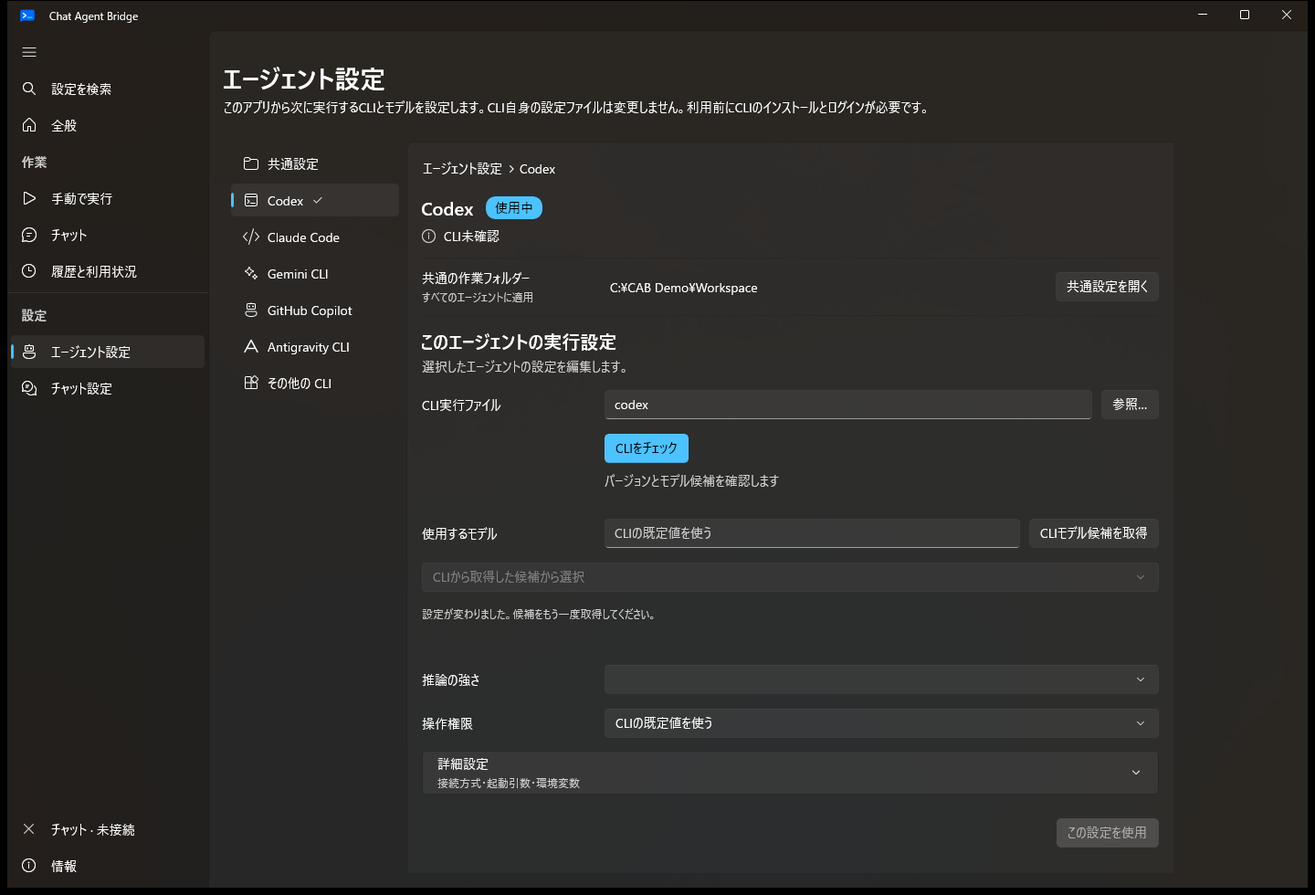
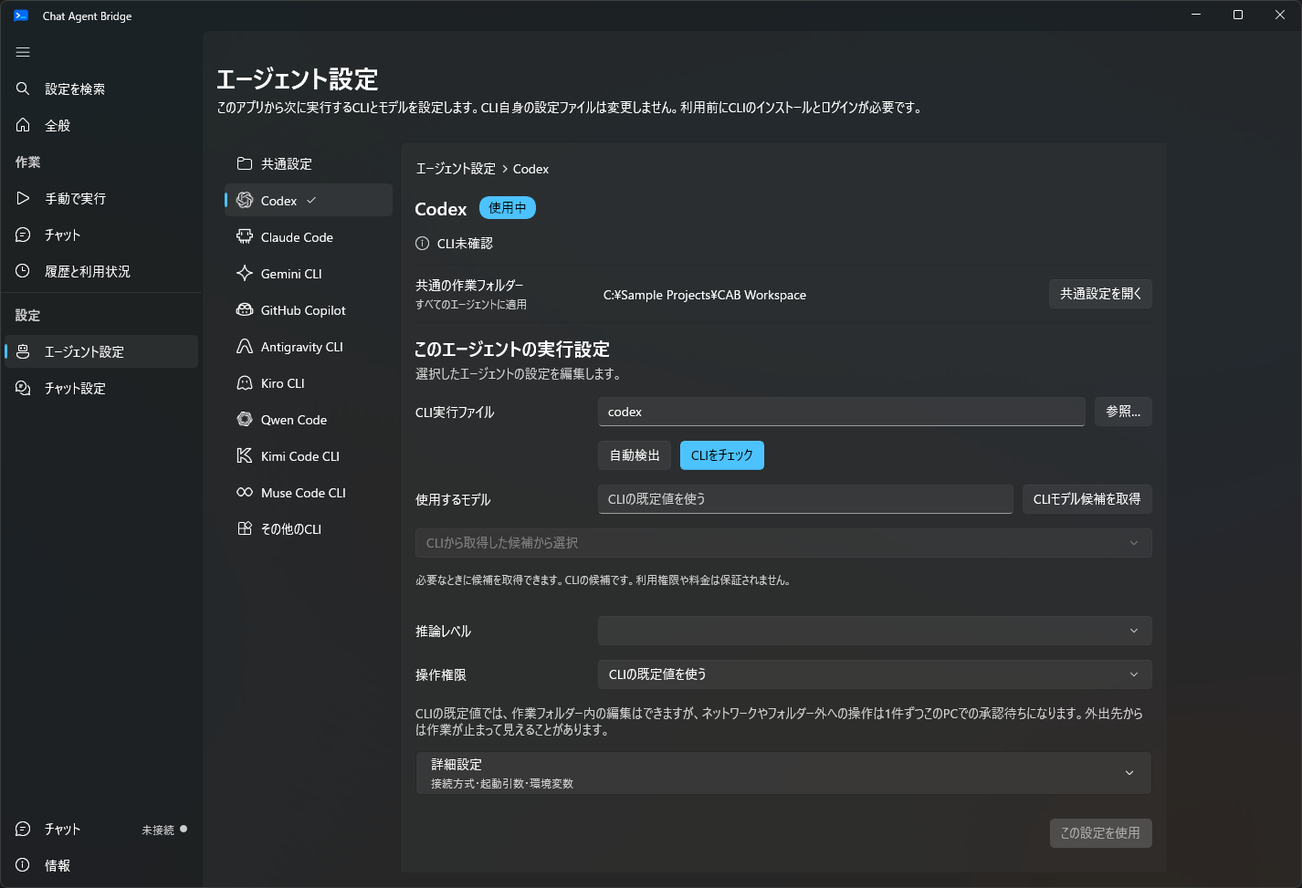
update: refresh screenshots and homepage

diff --git a/site/index.html b/site/index.html
@@ -38,7 +38,7 @@
 <div data-i18n="grp.ref" class="grp">参考</div><a data-i18n="nav.tips" href="#tips">Tips</a><a data-i18n="nav.faq" href="#faq">よくある質問</a></aside>
 <main id="top"><h1>Chat Agent Bridge</h1><p data-i18n="lead" class="sub">Slack・Mattermost・Discord に投稿した依頼を、Windows PC 上の AI エージェント（CLI）に渡して実行する常駐アプリです。結果は同じスレッドに返り、続きもそのスレッドで頼めます。</p><p data-i18n="note" class="dim">開発プレビュー版の非公式アプリです。各 AI サービスやチャットサービスの公式アプリではありません。</p><p data-i18n="recommend" class="dim">AI エージェントの提供元が公式のリモート操作機能を用意している場合は、そちらを推奨します。Chat Agent Bridge は、環境の制約で公式機能を使えない場合の代替手段です。</p><p data-i18n="safety" class="dim">予期しないユーザーからの利用や意図しない依頼を実行前に確認して止められるよう、「会話ごとに最初の依頼を確認」をおすすめします。会話の開始時に PC で依頼者と内容を確認します。許可ユーザーの制限と併用してください。</p>
 <div class="row"><a data-i18n="dl" class="btn accent" href="https://github.com/mmiyaji/chat-agent-bridge/releases">ポータブル版をダウンロード</a><a class="store" href="https://apps.microsoft.com/detail/9n1lzk25fsgr?mode=direct"><img class="on-light" src="assets/img/ms-store-badge-ja-dark.svg" data-en-src="assets/img/ms-store-badge-en-dark.svg" alt="Microsoft Store から入手" data-en-alt="Get it from Microsoft" width="132" height="36"><img class="on-dark" src="assets/img/ms-store-badge-ja-light.svg" data-en-src="assets/img/ms-store-badge-en-light.svg" alt="Microsoft Store から入手" data-en-alt="Get it from Microsoft" width="132" height="36"></a></div>
-<a href="assets/img/general-ja.png" class="glightbox shot-link" data-gallery="hero" data-description="全般の画面" data-en-href="assets/img/general-en.png" data-en-description="The General page"><img class="shot" src="assets/img/general-ja.png" alt="全般の画面" data-en-src="assets/img/general-en.png" data-en-alt="The General page" loading="lazy" width="1440" height="980"></a>
+<a href="assets/img/general-ja.png" class="glightbox shot-link" data-gallery="hero" data-description="全般の画面" data-en-href="assets/img/general-en.png" data-en-description="The General page"><img class="shot" src="assets/img/general-ja.png" alt="全般の画面" data-en-src="assets/img/general-en.png" data-en-alt="The General page" loading="lazy" width="1426" height="973"></a>
 <h2 data-i18n="h.how" id="how">仕組み</h2>
 <div class="card"><a href="assets/img/OverviewArchitecture-ja.png" class="glightbox shot diagram-link" data-gallery="how" data-description="依頼者、チャット、ローカル PC、結果の4段階の構成図" data-en-href="assets/img/OverviewArchitecture-en.png" data-en-description="Diagram of the four stages: requester, chat, local PC and result"><img class="shot diagram" src="assets/img/OverviewArchitecture-ja.png" alt="依頼者、チャット、ローカル PC、結果の4段階の構成図" data-en-src="assets/img/OverviewArchitecture-en.png" data-en-alt="Diagram of the four stages: requester, chat, local PC and result" loading="lazy" width="1440" height="980"></a><div class="state">
 <div class="card"><h3><span>01</span><span data-i18n="step1.t">チャットに投稿</span></h3><p data-i18n="step1.d" class="dim">外出先のスマートフォンや別の PC から、Bot へのメンションか <code>!cab</code> で依頼を書きます。操作する側の端末に CLI は要りません。</p></div>
@@ -48,20 +48,19 @@
 </div></div>
 <h2 data-i18n="h.features" id="features">できること</h2>
 <div class="stack">
-<div class="card exp"><div class="head"><div><h3 data-i18n="f1.t">チャットから依頼して、同じスレッドで続ける</h3><p data-i18n="f1.d">Slack、Mattermost、Discord に対応しています。スレッドごとに会話が分かれ、返信がそのまま追加の依頼になります。経過メッセージは「最小・標準・詳細」から選べ、標準では完了時に操作件数と使用量の1行にまとまります。</p></div><a href="assets/img/mattermost-demo-final.png" class="glightbox shot-link" data-gallery="site" data-description="Mattermost のスレッドで依頼と結果をやり取りしている画面" data-en-href="assets/img/mattermost-demo-final.png" data-en-description="A request and its result in a Mattermost thread"><img class="shot" src="assets/img/mattermost-demo-final.png" alt="Mattermost のスレッドで依頼と結果をやり取りしている画面" data-en-src="assets/img/mattermost-demo-final.png" data-en-alt="A request and its result in a Mattermost thread" loading="lazy" width="1440" height="980"></a></div></div>
-<div class="card exp"><div class="head"><div><h3 data-i18n="f2.t">承認と共有は自分で決める</h3><p data-i18n="f2.d">依頼の承認は「許可ユーザーは確認なし・会話の最初だけ・毎回」、結果の共有は「手動・自動・共有しない」から選びます。許可ユーザー、受け付けるチャンネルとスレッド、信頼する作業フォルダーもここで絞り込みます。</p></div><a href="assets/img/chat-settings-ja.png" class="glightbox shot-link" data-gallery="site" data-description="チャット設定の画面。承認、共有、追加指示、添付ファイルの設定が並ぶ" data-en-href="assets/img/chat-settings-en.png" data-en-description="Chat settings: approvals, sharing, follow-ups and attachments"><img class="shot" src="assets/img/chat-settings-ja.png" alt="チャット設定の画面。承認、共有、追加指示、添付ファイルの設定が並ぶ" data-en-src="assets/img/chat-settings-en.png" data-en-alt="Chat settings: approvals, sharing, follow-ups and attachments" loading="lazy" width="1440" height="980"></a></div></div>
-<div class="card exp"><div class="head"><div><h3 data-i18n="f3.t">使う CLI とモデルを切り替える</h3><p data-i18n="f3.d">Codex、Claude Code、Gemini CLI、GitHub Copilot CLI、Antigravity CLI に対応し、Kiro CLI・Qwen Code・Kimi Code CLI・Muse Code CLI はプレビュー対応です。会話ごとにエージェントとモデルを変えられ、切り替えるときは引き継ぎメモを渡すか選べます。</p></div><a href="assets/img/agents-ja.png" class="glightbox shot-link" data-gallery="site" data-description="エージェント設定の画面。作業フォルダーと CLI ごとの設定" data-en-href="assets/img/agents-en.png" data-en-description="Agent settings: the work folder and per-CLI settings"><img class="shot" src="assets/img/agents-ja.png" alt="エージェント設定の画面。作業フォルダーと CLI ごとの設定" data-en-src="assets/img/agents-en.png" data-en-alt="Agent settings: the work folder and per-CLI settings" loading="lazy" width="1440" height="980"></a></div></div>
-<div class="card exp"><div class="head"><div><h3 data-i18n="f4.t">履歴と利用量を見返す</h3><p data-i18n="f4.d">会話の一覧、実行と操作の記録、日別の利用カレンダー、トークン数とキャッシュ利用率のグラフを表示します。推定コストは公開料金からの参考値で、依頼本文や結果の本文は保存しません。</p></div><a href="assets/img/history-ja.png" class="glightbox shot-link" data-gallery="site" data-description="履歴と利用状況の画面。日別の利用カレンダー" data-en-href="assets/img/history-en.png" data-en-description="History and usage: the daily usage calendar"><img class="shot" src="assets/img/history-ja.png" alt="履歴と利用状況の画面。日別の利用カレンダー" data-en-src="assets/img/history-en.png" data-en-alt="History and usage: the daily usage calendar" loading="lazy" width="1440" height="980"></a></div></div>
-<div class="card exp"><div class="head"><div><h3 data-i18n="f5.t">常駐と自動接続</h3><p data-i18n="f5.d">Windows へのサインイン時の自動起動、起動後の自動接続、タスクトレイ常駐を設定できます。ポータブル版はアプリ内で更新を確認し、ダウンロードの一時停止・再開もできます。</p></div><a href="assets/img/general-ja.png" class="glightbox shot-link" data-gallery="site" data-description="全般の画面。現在の状態と自動起動・自動接続の設定" data-en-href="assets/img/general-en.png" data-en-description="General: current status and startup and connection settings"><img class="shot" src="assets/img/general-ja.png" alt="全般の画面。現在の状態と自動起動・自動接続の設定" data-en-src="assets/img/general-en.png" data-en-alt="General: current status and startup and connection settings" loading="lazy" width="1440" height="980"></a></div></div>
+<div class="card exp"><div class="head"><div><h3 data-i18n="f1.t">チャットから依頼して、同じスレッドで続ける</h3><p data-i18n="f1.d">Slack、Mattermost、Discord に対応しています。スレッドごとに会話が分かれ、返信がそのまま追加の依頼になります。経過メッセージは「最小・標準・詳細」から選べ、標準では完了時に操作件数と使用量の1行にまとまります。</p></div><a href="assets/img/chat-service-flow-ja.png" class="glightbox shot-link" data-gallery="site" data-description="Mattermost と Slack：実行中から同じスレッドへの結果返信まで" data-en-href="assets/img/chat-service-flow-en.png" data-en-description="Mattermost and Slack: progress and results in the same thread"><img class="shot" src="assets/img/chat-service-flow-ja.png" alt="Mattermost と Slack の実行中表示と結果返信" data-en-src="assets/img/chat-service-flow-en.png" data-en-alt="In-progress status and result replies in Mattermost and Slack" loading="lazy" width="2560" height="1440"></a></div></div>
+<div class="card exp"><div class="head"><div><h3 data-i18n="f2.t">承認と共有は自分で決める</h3><p data-i18n="f2.d">依頼の承認は「許可ユーザーは確認なし・会話の最初だけ・毎回」、結果の共有は「手動・自動・共有しない」から選びます。許可ユーザー、受け付けるチャンネルとスレッド、信頼する作業フォルダーもここで絞り込みます。</p></div><a href="assets/img/chat-settings-ja.png" class="glightbox shot-link" data-gallery="site" data-description="チャット設定の画面。承認、共有、追加指示、添付ファイルの設定が並ぶ" data-en-href="assets/img/chat-settings-en.png" data-en-description="Chat settings: approvals, sharing, follow-ups and attachments"><img class="shot" src="assets/img/chat-settings-ja.png" alt="チャット設定の画面。承認、共有、追加指示、添付ファイルの設定が並ぶ" data-en-src="assets/img/chat-settings-en.png" data-en-alt="Chat settings: approvals, sharing, follow-ups and attachments" loading="lazy" width="1426" height="973"></a></div></div>
+<div class="card exp"><div class="head"><div><h3 data-i18n="f3.t">使う CLI とモデルを切り替える</h3><p data-i18n="f3.d">Codex、Claude Code、Gemini CLI、GitHub Copilot CLI、Antigravity CLI に対応し、Kiro CLI・Qwen Code・Kimi Code CLI・Muse Code CLI はプレビュー対応です。会話ごとにエージェントとモデルを変えられ、切り替えるときは引き継ぎメモを渡すか選べます。</p></div><a href="assets/img/agents-ja.png" class="glightbox shot-link" data-gallery="site" data-description="エージェント設定の画面。作業フォルダーと CLI ごとの設定" data-en-href="assets/img/agents-en.png" data-en-description="Agent settings: the work folder and per-CLI settings"><img class="shot" src="assets/img/agents-ja.png" alt="エージェント設定の画面。作業フォルダーと CLI ごとの設定" data-en-src="assets/img/agents-en.png" data-en-alt="Agent settings: the work folder and per-CLI settings" loading="lazy" width="1426" height="973"></a></div></div>
+<div class="card exp"><div class="head"><div><h3 data-i18n="f4.t">履歴と利用量を見返す</h3><p data-i18n="f4.d">会話の一覧、実行と操作の記録、日別の利用カレンダー、トークン数とキャッシュ利用率のグラフを表示します。推定コストは公開料金からの参考値で、依頼本文や結果の本文は保存しません。</p></div><a href="assets/img/history-ja.png" class="glightbox shot-link" data-gallery="site" data-description="履歴と利用状況の画面。日別の利用カレンダー" data-en-href="assets/img/history-en.png" data-en-description="History and usage: the daily usage calendar"><img class="shot" src="assets/img/history-ja.png" alt="履歴と利用状況の画面。日別の利用カレンダー" data-en-src="assets/img/history-en.png" data-en-alt="History and usage: the daily usage calendar" loading="lazy" width="1426" height="973"></a></div></div>
+<div class="card exp"><div class="head"><div><h3 data-i18n="f5.t">常駐と自動接続</h3><p data-i18n="f5.d">Windows へのサインイン時の自動起動、起動後の自動接続、タスクトレイ常駐を設定できます。ポータブル版はアプリ内で更新を確認し、ダウンロードの一時停止・再開もできます。</p></div><a href="assets/img/general-ja.png" class="glightbox shot-link" data-gallery="site" data-description="全般の画面。現在の状態と自動起動・自動接続の設定" data-en-href="assets/img/general-en.png" data-en-description="General: current status and startup and connection settings"><img class="shot" src="assets/img/general-ja.png" alt="全般の画面。現在の状態と自動起動・自動接続の設定" data-en-src="assets/img/general-en.png" data-en-alt="General: current status and startup and connection settings" loading="lazy" width="1426" height="973"></a></div></div>
 </div>
 <h2 data-i18n="h.gallery" id="gallery">画面</h2>
 <div class="gal">
-<figure><a href="assets/img/general-ja.png" class="glightbox shot-link" data-gallery="g" data-description="全般：現在の状態と起動・接続の設定" data-en-href="assets/img/general-en.png" data-en-description="General: status, startup and connection"><img class="shot" src="assets/img/general-ja.png" alt="全般：現在の状態と起動・接続の設定" data-en-src="assets/img/general-en.png" data-en-alt="General: status, startup and connection" loading="lazy" width="1440" height="980"></a><figcaption data-i18n="g1">全般：現在の状態と起動・接続の設定</figcaption></figure>
-<figure><a href="assets/img/chat-settings-ja.png" class="glightbox shot-link" data-gallery="g" data-description="チャット設定：承認・共有・添付ファイル" data-en-href="assets/img/chat-settings-en.png" data-en-description="Chat settings: approvals, sharing, attachments"><img class="shot" src="assets/img/chat-settings-ja.png" alt="チャット設定：承認・共有・添付ファイル" data-en-src="assets/img/chat-settings-en.png" data-en-alt="Chat settings: approvals, sharing, attachments" loading="lazy" width="1440" height="980"></a><figcaption data-i18n="g2">チャット設定：承認・共有・添付ファイル</figcaption></figure>
-<figure><a href="assets/img/agents-ja.png" class="glightbox shot-link" data-gallery="g" data-description="エージェント設定：作業フォルダーと CLI" data-en-href="assets/img/agents-en.png" data-en-description="Agent settings: work folder and CLI"><img class="shot" src="assets/img/agents-ja.png" alt="エージェント設定：作業フォルダーと CLI" data-en-src="assets/img/agents-en.png" data-en-alt="Agent settings: work folder and CLI" loading="lazy" width="1440" height="980"></a><figcaption data-i18n="g3">エージェント設定：作業フォルダーと CLI</figcaption></figure>
-<figure><a href="assets/img/history-ja.png" class="glightbox shot-link" data-gallery="g" data-description="履歴と利用状況：日別カレンダー" data-en-href="assets/img/history-en.png" data-en-description="History and usage: daily calendar"><img class="shot" src="assets/img/history-ja.png" alt="履歴と利用状況：日別カレンダー" data-en-src="assets/img/history-en.png" data-en-alt="History and usage: daily calendar" loading="lazy" width="1440" height="980"></a><figcaption data-i18n="g4">履歴と利用状況：日別カレンダー</figcaption></figure>
-<figure><a href="assets/img/slack-demo-2026-03-31-final.png" class="glightbox shot-link" data-gallery="g" data-description="Slack でのやり取りの例" data-en-href="assets/img/slack-demo-2026-03-31-final.png" data-en-description="An exchange in Slack"><img class="shot" src="assets/img/slack-demo-2026-03-31-final.png" alt="Slack でのやり取りの例" data-en-src="assets/img/slack-demo-2026-03-31-final.png" data-en-alt="An exchange in Slack" loading="lazy" width="1440" height="980"></a><figcaption data-i18n="g5">Slack でのやり取りの例</figcaption></figure>
-<figure><a href="assets/img/mattermost-demo-final.png" class="glightbox shot-link" data-gallery="g" data-description="Mattermost でのやり取りの例" data-en-href="assets/img/mattermost-demo-final.png" data-en-description="An exchange in Mattermost"><img class="shot" src="assets/img/mattermost-demo-final.png" alt="Mattermost でのやり取りの例" data-en-src="assets/img/mattermost-demo-final.png" data-en-alt="An exchange in Mattermost" loading="lazy" width="1440" height="980"></a><figcaption data-i18n="g6">Mattermost でのやり取りの例</figcaption></figure>
+<figure><a href="assets/img/general-ja.png" class="glightbox shot-link" data-gallery="g" data-description="全般：現在の状態と起動・接続の設定" data-en-href="assets/img/general-en.png" data-en-description="General: status, startup and connection"><img class="shot" src="assets/img/general-ja.png" alt="全般：現在の状態と起動・接続の設定" data-en-src="assets/img/general-en.png" data-en-alt="General: status, startup and connection" loading="lazy" width="1426" height="973"></a><figcaption data-i18n="g1">全般：現在の状態と起動・接続の設定</figcaption></figure>
+<figure><a href="assets/img/chat-settings-ja.png" class="glightbox shot-link" data-gallery="g" data-description="チャット設定：承認・共有・添付ファイル" data-en-href="assets/img/chat-settings-en.png" data-en-description="Chat settings: approvals, sharing, attachments"><img class="shot" src="assets/img/chat-settings-ja.png" alt="チャット設定：承認・共有・添付ファイル" data-en-src="assets/img/chat-settings-en.png" data-en-alt="Chat settings: approvals, sharing, attachments" loading="lazy" width="1426" height="973"></a><figcaption data-i18n="g2">チャット設定：承認・共有・添付ファイル</figcaption></figure>
+<figure><a href="assets/img/agents-ja.png" class="glightbox shot-link" data-gallery="g" data-description="エージェント設定：作業フォルダーと CLI" data-en-href="assets/img/agents-en.png" data-en-description="Agent settings: work folder and CLI"><img class="shot" src="assets/img/agents-ja.png" alt="エージェント設定：作業フォルダーと CLI" data-en-src="assets/img/agents-en.png" data-en-alt="Agent settings: work folder and CLI" loading="lazy" width="1426" height="973"></a><figcaption data-i18n="g3">エージェント設定：作業フォルダーと CLI</figcaption></figure>
+<figure><a href="assets/img/history-ja.png" class="glightbox shot-link" data-gallery="g" data-description="履歴と利用状況：日別カレンダー" data-en-href="assets/img/history-en.png" data-en-description="History and usage: daily calendar"><img class="shot" src="assets/img/history-ja.png" alt="履歴と利用状況：日別カレンダー" data-en-src="assets/img/history-en.png" data-en-alt="History and usage: daily calendar" loading="lazy" width="1426" height="973"></a><figcaption data-i18n="g4">履歴と利用状況：日別カレンダー</figcaption></figure>
+<figure class="flow"><a href="assets/img/chat-service-flow-ja.png" class="glightbox shot-link" data-gallery="g" data-description="Mattermost と Slack：依頼の実行中から完了・結果返信まで" data-en-href="assets/img/chat-service-flow-en.png" data-en-description="Mattermost and Slack: from request in progress to completion and result"><img class="shot" src="assets/img/chat-service-flow-ja.png" alt="Mattermost と Slack で依頼の実行中状態から同じスレッドへの結果返信まで" data-en-src="assets/img/chat-service-flow-en.png" data-en-alt="Request progress and result replies in Mattermost and Slack threads" loading="lazy" width="2560" height="1440"></a><figcaption data-i18n="g5">Mattermost と Slack：依頼の実行中から完了・結果返信まで</figcaption></figure>
 </div>
 <h2 data-i18n="h.start" id="start">始め方</h2>
 <div class="card flush"><table class="req">

diff --git a/site/assets/styles.css b/site/assets/styles.css
@@ -26,7 +26,7 @@ h1{font-size:30px;font-weight:600;margin:0 0 6px}h2{font-size:20px;font-weight:6
 .stack>.card+.card{margin-top:4px}
 .exp{padding:0}.exp>.head{display:grid;grid-template-columns:minmax(0,1fr) 300px;gap:20px;padding:16px 18px;align-items:center}
 .exp p{margin:2px 0 0;color:var(--muted);font-size:14px}
-.gal{display:grid;grid-template-columns:repeat(3,minmax(0,1fr));gap:10px}.gal figure{margin:0}.gal figcaption{font-size:12px;color:var(--dim);margin-top:4px}
+.gal{display:grid;grid-template-columns:repeat(3,minmax(0,1fr));gap:10px}.gal figure{margin:0}.gal figure.flow{grid-column:1/-1}.gal figcaption{font-size:12px;color:var(--dim);margin-top:4px}
 table.req{width:100%;border-collapse:collapse;font-size:14px}table.req th,table.req td{padding:10px 14px;text-align:left;border-top:1px solid var(--line);vertical-align:top}table.req tr:first-child th,table.req tr:first-child td{border-top:0}table.req th{width:9em;font-weight:600}
 ol.inst{margin:0;padding:0;list-style:none;counter-reset:n}ol.inst li{counter-increment:n;display:grid;grid-template-columns:28px 1fr;gap:10px;padding:10px 0;border-top:1px solid var(--line)}ol.inst li:first-child{border-top:0}
 ol.inst li::before{content:counter(n);width:24px;height:24px;border-radius:50%;background:var(--card2);border:1px solid var(--line);display:grid;place-items:center;font-size:12px}

diff --git a/site/assets/i18n-en.js b/site/assets/i18n-en.js
@@ -41,8 +41,7 @@ window.CAB_EN = {
  "g2": "Chat settings: approvals, sharing, attachments",
  "g3": "Agent settings: work folder and CLI",
  "g4": "History and usage: daily calendar",
- "g5": "An exchange in Slack",
- "g6": "An exchange in Mattermost",
+ "g5": "Mattermost and Slack: from request in progress to completion and result reply",
  "h.start": "Getting started",
  "r1.k": "OS",
  "r1.v": "Windows 10 (version 1809 or later) or Windows 11",

diff --git a/docs/assets/screenshots/README.md b/docs/assets/screenshots/README.md
@@ -1,23 +1,75 @@
 # README screenshots
 
-Captured on Windows on 2026-11-02 from the current native desktop development
-build. The images show the current navigation groups, Antigravity CLI settings,
-Discord chat settings, and progress-message detail control.
+Captured on Windows on 2026-11-08 from the current native desktop development
+build. The images show General, Agent settings, shared Chat settings, and the
+History and usage Activity tab.
 
 - `*-ja.png`: Japanese, dark appearance.
 - `*-en.png`: English, light appearance.
-- Each image is an unedited 1440 × 980 native window capture.
+- Each image is a 1426 × 973 native window capture. UI inspection overlays were
+  excluded; no application content was altered.
 - The app used separate demo data directories, not the user's normal profile.
 - Chat was disconnected, tokens were absent, and no AI requests were made.
 - History screenshots show 70 generated aggregate runs across 28 active days and
   52 detailed execution records still within the default 30-day history period.
   Older detail records have expired while the longer-lived statistics remain.
   Counts, tokens and model names are sample data, not performance results.
-- Agent screenshots show Codex selected with its CLI unverified. Chat settings
-  show no credentials and the app remains disconnected.
+- Agent screenshots show Codex selected with its CLI unverified and a generic
+  sample workspace path. Chat settings show no credentials and the app remains
+  disconnected.
 
 When refreshing, use an isolated profile with no credentials, disable update and
 price-table network checks, capture the same four pages in both languages, and
 review every image for clipping, error banners and sensitive information before
 replacing the files. Update the screenshot date in both root READMEs and note if
 the Partner Center draft still contains an earlier image set.
+
+The Store screenshot assets are in `../store-screenshots/{ja,en}/`. Each
+language has four unannotated native app captures and one chat-flow composite.
+The Store listing is paused; these files have not been uploaded to Partner
+Center. Storeframe checked the eight native captures against the cached MSIX
+desktop target, with no machine-check issues. Both composites were separately
+checked for PNG format, 2560 × 1440 dimensions, and file size under 50 MB.
+Microsoft lists a minimum of 1366 × 768 pixels and a 50 MB maximum per
+screenshot. See the current [Microsoft screenshot
+requirements](https://learn.microsoft.com/en-us/windows/apps/publish/publish-your-app/msix/screenshots-and-images).
+
+## Chat client demos
+
+`mattermost-demo-running-en.png` and `mattermost-demo-completed-en.png` are the
+English versions; the un-suffixed files are identical copies for existing links.
+They show the current CAB app connected to a dedicated channel on the local
+Mattermost test Docker server. The UI is English, progress reporting is set to
+Standard, and the request only waits before replying; it does not read, create,
+or modify files. The channel and accounts are generic test identities. No real
+workspace, service, or personal account data is shown.
+
+`slack-demo-completed-ja.png` and `slack-demo-running-ja.png` show the Japanese
+Slack thread. `slack-demo-completed-en.png` shows the English Slack interface
+and request/reply; CAB's status labels in that earlier capture are Japanese.
+`slack-demo-running-en.png` shows both the English Slack interface and CAB's
+English in-progress status. These captures use the existing `#cab` channel.
+Human account names and avatars are redacted; screenshots are cropped to the
+thread, excluding workspace navigation and account context. The English
+in-progress request only waits before replying and does not access or modify
+files.
+
+## Store chat-flow composites
+
+`../store-screenshots/ja/chat-service-flow.png` and
+`../store-screenshots/en/chat-service-flow.png` combine real Mattermost and Slack
+thread captures into a two-column, running-to-completed flow. Both are PNGs at
+2560 × 1440 (under 50 MB); the source mapping and SHA-256 values are recorded in
+`../store-screenshots/chat-flow-manifest.json`. The Japanese image labels that
+the Mattermost UI capture is English. The English image notes that the Slack
+completion capture has Japanese bot status text. Copies for the root READMEs
+are `chat-service-flow-ja.png` and `chat-service-flow-en.png` in this directory.
+The composites are also included in the website gallery with a Japanese/English
+language switch.
+
+These are annotated composites, made because the two-service state transition
+needs to be presented in one image. Microsoft Store's technical screenshot
+minimums are met, but its content guidance recommends unaltered app screenshots
+without marketing overlays. Treat these files as requiring manual content
+review before any future submission. The Store listing remains paused and the
+images have not been uploaded to Partner Center.

diff --git a/README.ja.md b/README.ja.md
@@ -217,11 +217,16 @@ PCでも実行中の出力を確認し、依頼を中断できます。
 
 ポータブル版は**情報**から更新を確認・適用できます。ダウンロード中と一時停止中は受信済み容量と総容量を表示します。転送速度・推定残り時間、通信待ちの経過秒数、再試行の回数、検証・更新準備の処理段階を確認でき、キャンセルも可能です。データを5分間受信できない場合は再試行します。一時停止・再開と、アプリ再起動後の続きからの取得に対応します。通信エラーは最大3回自動再試行し、完了時に全体のSHA-256を検証します。`Data`は更新後も引き継ぎます。完了した更新のダウンロードや一時的なバイナリは自動で整理し、ログや更新記録は保持します。情報の「更新の設定」で使用容量を確認できます。手動の整理は「情報 → 詳細設定 → 保守」から行えます。手動で更新する場合は、アプリを終了してから`Data`を残して入れ替えてください。
 
-画面写真は2026年11月2日に開発版から撮影しました。撮影専用の設定と
-サンプル利用履歴を使い、実際の会話や認証情報は含めていません。利用統計には
+アプリ画面は2026年11月8日に開発版から撮影しました。撮影専用の設定と
+サンプル利用履歴を使い、実際の会話や認証情報は含めていません。Slackの
+スレッド例は実際のテスト会話で、個人アカウント情報をマスキングしています。利用統計には
 過去28稼働日のサンプル70件が集計されています。詳細履歴には既定の30日保持
 期間内にある52件が表示され、期間を過ぎた明細の集計値は統計に残ります。
 いずれも動作例で、性能の実測値ではありません。公開版とは画面が異なる場合があります。
+
+![Mattermost と Slack の依頼・実行中・結果返信の状態遷移（日本語）](docs/assets/screenshots/chat-service-flow-ja.png)
+
+上図は実際のMattermost・Slackテスト会話を使った状態遷移例です。Mattermostの画面は英語、Slackの画面は日本語です。個人アカウント情報はマスキングしています。
 
 ## アンインストール
 

diff --git a/docs/store-submission-draft.ja.md b/docs/store-submission-draft.ja.md
@@ -15,7 +15,8 @@
 - プライバシーポリシー：GitHubの現行英語文書。サポートはGitHub Issues。
 - Windowsユーザー単位で暗号化された設定を含むため、OneDriveへの自動バックアップの宣言はオフ。
 - Store掲載情報：日本語・英語。各言語の説明、短い説明、主要機能4件、実機スクリーンショット4枚、開発元・権利表記を保存。「完了」を確認。
-- Partner Centerには2026-10-24撮影の旧画像を保存。ローカルのREADME画像は2026-11-02に現行UIで更新したため、Partner Centerの下書きは再アップロードするまで旧画像のまま。履歴・統計には説明用サンプルデータの注記を付与。
+- Mattermost と Slack の実行中・完了画面をまとめた日英の合成画像を `docs/assets/store-screenshots/{ja,en}/chat-service-flow.png` に追加。2560×1440 PNGでサイズ要件を満たす。実画面はすべて表示されるよう再確認済み。Partner Centerには未アップロード。
+- Partner Centerには2026-10-24撮影の旧画像を保存。ローカルのREADME・ホームページ・ストア用画像は2026-11-08に現行UIで更新済み（`docs/assets/store-screenshots/{ja,en}/`）。Partner Centerの下書きは再アップロードするまで旧画像のまま。ストア版は停止中のためアップロードしていない。履歴・統計には説明用サンプルデータの注記を付与。
 - 既存の「システム構成と依頼の流れ」図を、スマートフォン／ブラウザーからのBotメンション、Bot専用アカウントの推奨、CLIの別途インストールが分かるよう日英で更新（[編集元SVGとプレビュー](assets/overview/README.md)）。初回起動時のウィザードとREADMEで使用。Partner Centerには未アップロード。
 - パッケージ：x64・ARM64をアップロードし、両方の `Validated` とパッケージ項目の「完了」を確認。
 - 対象デバイスはWindowsデスクトップのみ。将来のデバイスファミリーへの自動提供はオフ。

diff --git a/README.md b/README.md
@@ -231,11 +231,16 @@ The app uses Japanese when the Windows language preference is Japanese and Engli
 
 Portable builds can check for and apply updates from **About**. Downloads show received and total size while active or paused, transfer speed and estimated time remaining, elapsed time while waiting for data, retry counts, and verification and preparation stages. Downloads can be canceled. Downloads support pause and resume, including after restarting the app. Network failures or five minutes without data trigger up to three retries. The completed archive is verified with SHA-256. The `Data` folder is retained during updates. Completed update downloads and temporary binary payloads are cleaned up automatically; update logs are retained. Information → Update settings shows storage usage. Manual cleanup is under Information → Advanced settings → Maintenance. For manual updates, close the app and replace the files while keeping `Data`.
 
-Screenshots were captured from the development build on 2026-11-02 with isolated
-demo settings. They contain no real conversations or credentials. The usage
+App screenshots were captured from the development build on 2026-11-08 with isolated
+demo settings; they contain no real conversations or credentials. The Slack
+thread demo is a real test exchange with human account details redacted. The usage
 summary retains 70 sample runs across 28 active days while detailed history
 shows 52 records still within its default 30-day retention period. These values
 are examples, not performance results. Released versions may differ.
+
+![Mattermost and Slack request flow from in progress to completed reply](docs/assets/screenshots/chat-service-flow-en.png)
+
+This composite uses real Mattermost and Slack test conversations. Mattermost is shown in English; the Slack interface is English, with Japanese bot status text noted in the image. Human account details are redacted.
 
 ## Uninstalling
 

diff --git a/docs/TODO.md b/docs/TODO.md
@@ -4,6 +4,9 @@
 
 ## 直近
 
+- [x] Mattermost・Slackの実行中／完了画面を撮り直し、左右2列・上下遷移の日英PNG（2560×1440）を作成。Slack実行中画面のBot返信全文も表示するよう切り出しを修正。README・ホームページへ反映し、個人アカウント情報をマスキング。ストア向けサイズを検証。ストア提出は停止中。
+
+
 - [x] 1.1.0-preview.3 を公開。x64 / ARM64 ZIP の検証とSHA256、Previewフィード掲載・安定版フィード維持を確認。公開済みpreview.2から実際の公開x64 ZIPへの更新成功・ロールバックも確認。ARM64はクロスビルドのみで実機起動未確認。並行ビルド後の公開workflowは11分17秒（preview.2は14分24秒）、3分07秒短縮。
 
 - [x] Portable release の x64 / ARM64 ZIP を CI / UI Smoke と並行してビルドし、検証ジョブで両方の成功を待ってから公開する。CI結果とパッケージ検証はすべて公開ゲートとして維持。preview.3で両ZIPはchecks / UI Smokeと並行開始、verifyはchecksと両ZIP完了後に実行。
